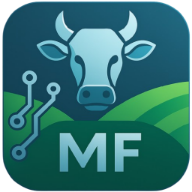
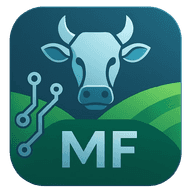
refactor: 3rd try

Changed region(s): [[0.0, 0.0, 1.0, 1.0]]

diff --git a/pwa-assets.config.ts b/pwa-assets.config.ts
@@ -8,16 +8,16 @@ export default defineConfig({
 		...minimal2023Preset,
 		maskable: {
 			sizes: [512],
-			padding: 0.3,
+			padding: 0,
 			resizeOptions: {
-				background: '#10b981',
+				background: '#054F41',
 			},
 		},
 		apple: {
 			sizes: [180],
-			padding: 0.3,
+			padding: 0,
 			resizeOptions: {
-				background: '#10b981',
+				background: '#054F41',
 			},
 		},
 	},
